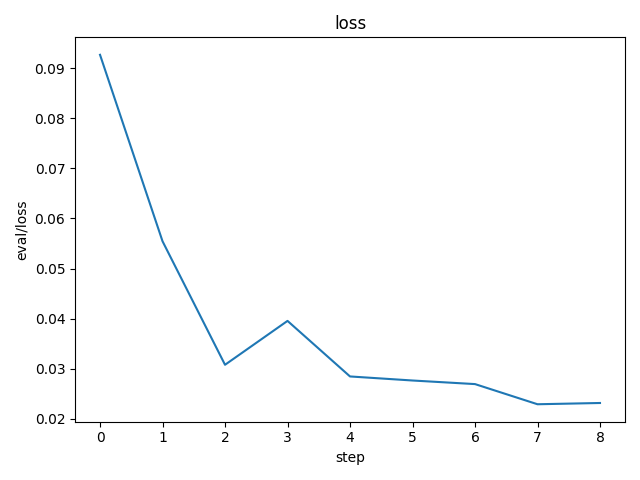
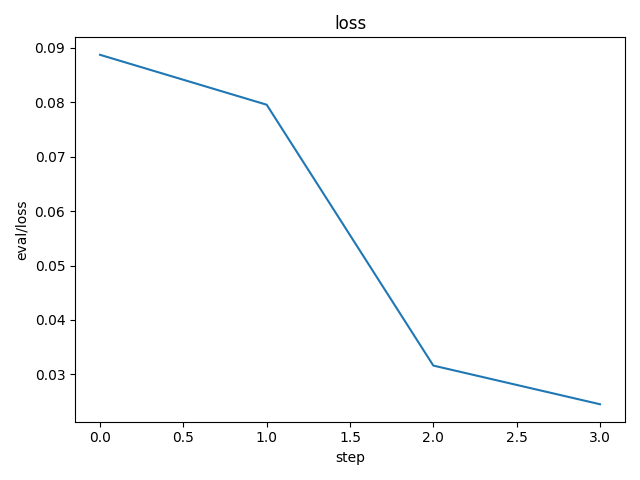
CML PR for 748f15bd [skip ci] (#35)

diff --git a/results/evaluate/report.md b/results/evaluate/report.md
@@ -4,24 +4,24 @@ metrics.json
 
 |   dice_multi |
 |--------------|
-|     0.915843 |
+|     0.796868 |
 
-![REGION_1-24_1024_2048_0_1024.png](plots/images/REGION_1-24_1024_2048_0_1024.png)
+![REGION_1-24_1024_2048_2048_3072.png](plots/images/REGION_1-24_1024_2048_2048_3072.png)
 
-![REGION_1-24_1024_2048_2816_3840.png](plots/images/REGION_1-24_1024_2048_2816_3840.png)
+![REGION_2-4_1136_2160_2816_3840.png](plots/images/REGION_2-4_1136_2160_2816_3840.png)
 
-![REGION_1-24_1136_2160_1024_2048.png](plots/images/REGION_1-24_1136_2160_1024_2048.png)
+![REGION_3-8_0_1024_2816_3840.png](plots/images/REGION_3-8_0_1024_2816_3840.png)
 
-![REGION_1-24_1136_2160_2048_3072.png](plots/images/REGION_1-24_1136_2160_2048_3072.png)
+![REGION_4-12_1024_2048_0_1024.png](plots/images/REGION_4-12_1024_2048_0_1024.png)
 
-![REGION_2-19_0_1024_0_1024.png](plots/images/REGION_2-19_0_1024_0_1024.png)
+![REGION_4-12_1024_2048_2048_3072.png](plots/images/REGION_4-12_1024_2048_2048_3072.png)
 
-![REGION_2-19_1136_2160_0_1024.png](plots/images/REGION_2-19_1136_2160_0_1024.png)
+![REGION_4-22_1136_2160_2048_3072.png](plots/images/REGION_4-22_1136_2160_2048_3072.png)
 
-![REGION_2-4_1024_2048_2048_3072.png](plots/images/REGION_2-4_1024_2048_2048_3072.png)
+![REGION_6-13_0_1024_1024_2048.png](plots/images/REGION_6-13_0_1024_1024_2048.png)
 
-![REGION_3-25_1024_2048_1024_2048.png](plots/images/REGION_3-25_1024_2048_1024_2048.png)
+![REGION_6-20_1024_2048_1024_2048.png](plots/images/REGION_6-20_1024_2048_1024_2048.png)
 
-![REGION_3-8_0_1024_2048_3072.png](plots/images/REGION_3-8_0_1024_2048_3072.png)
+![REGION_7-3_1024_2048_0_1024.png](plots/images/REGION_7-3_1024_2048_0_1024.png)
 
-![REGION_4-12_0_1024_2816_3840.png](plots/images/REGION_4-12_0_1024_2816_3840.png)
+![REGION_8-24_1136_2160_1024_2048.png](plots/images/REGION_8-24_1136_2160_1024_2048.png)

diff --git a/results/train/report.md b/results/train/report.md
@@ -10,10 +10,10 @@ metrics.json
 
 | train                         | eval                           |   dice_multi |   step |
 |-------------------------------|--------------------------------|--------------|--------|
-| {'loss': 0.02594890259206295} | {'loss': 0.023166080936789513} |     0.912273 |      8 |
+| {'loss': 0.05783887952566147} | {'loss': 0.024506909772753716} |     0.903865 |      3 |
 
 ![static/dice_multi](static/dice_multi.png)
 
-![static/eval/loss](static/eval/loss.png)
-
 ![static/train/loss](static/train/loss.png)
+
+![static/eval/loss](static/eval/loss.png)
